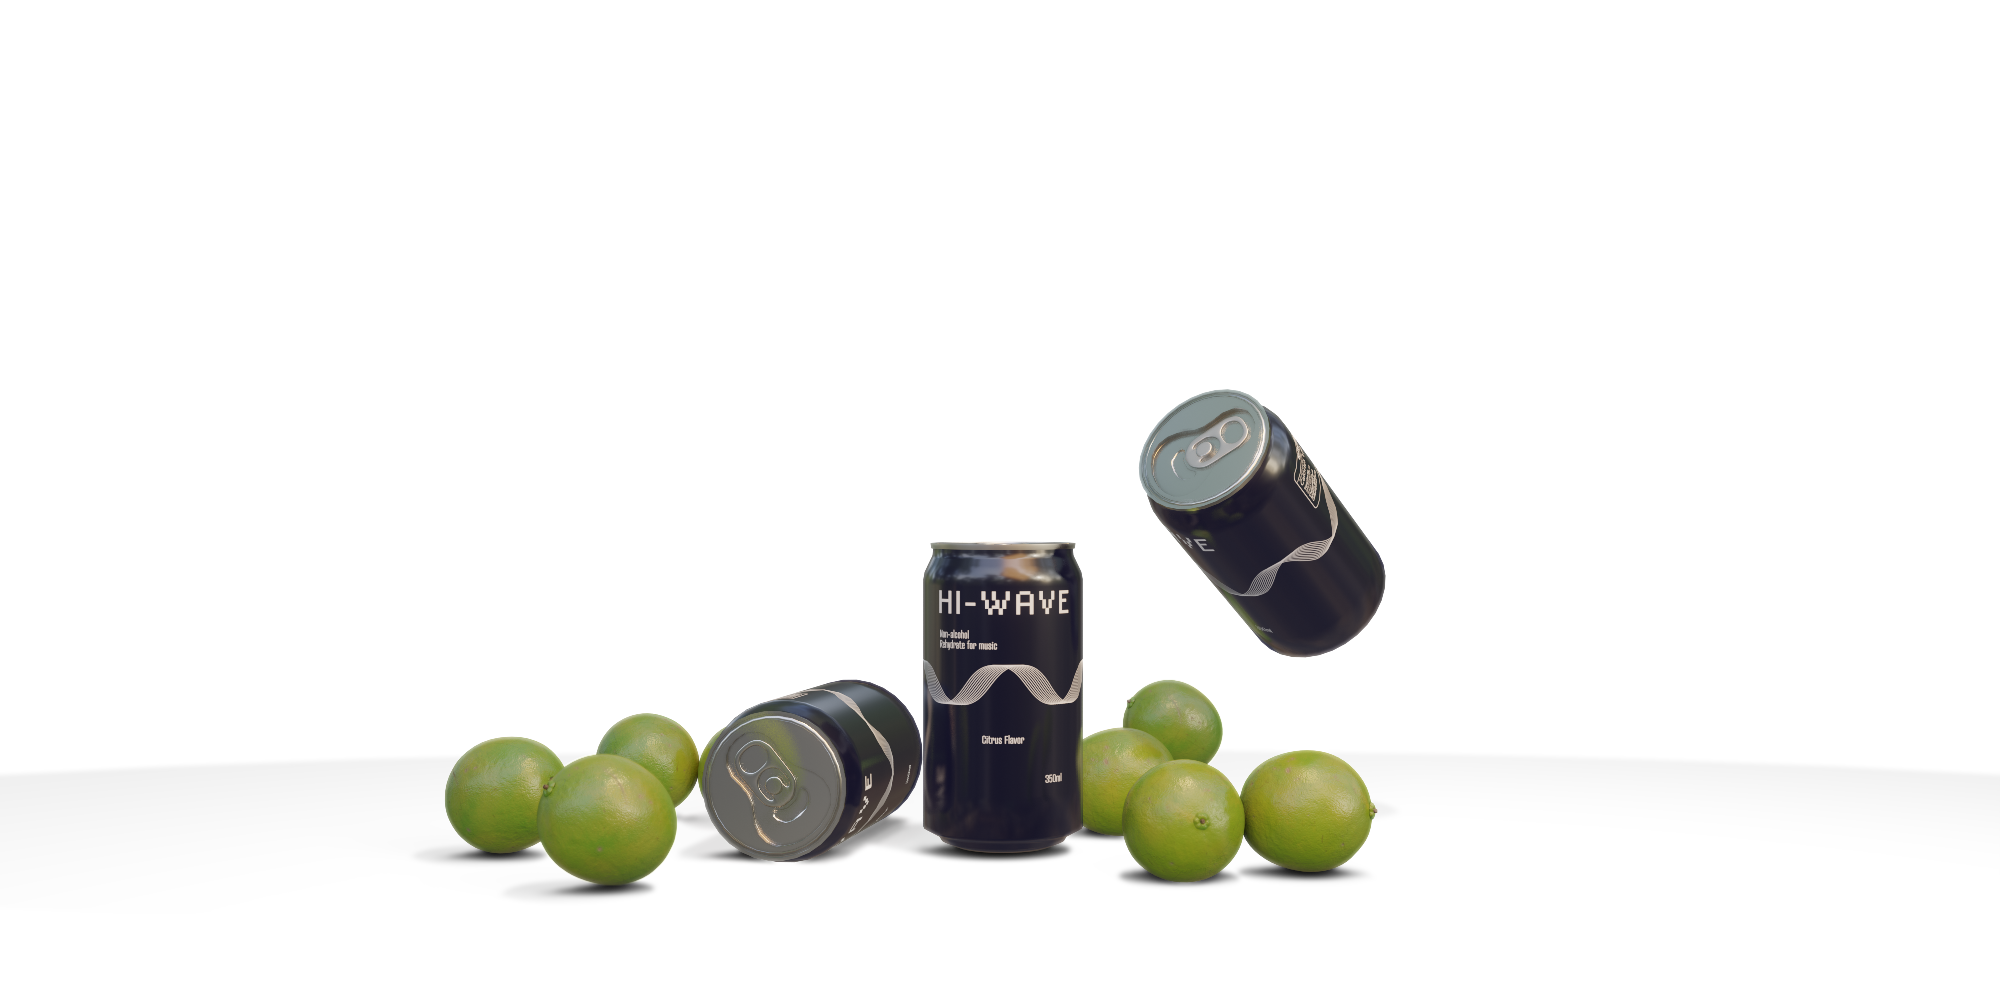
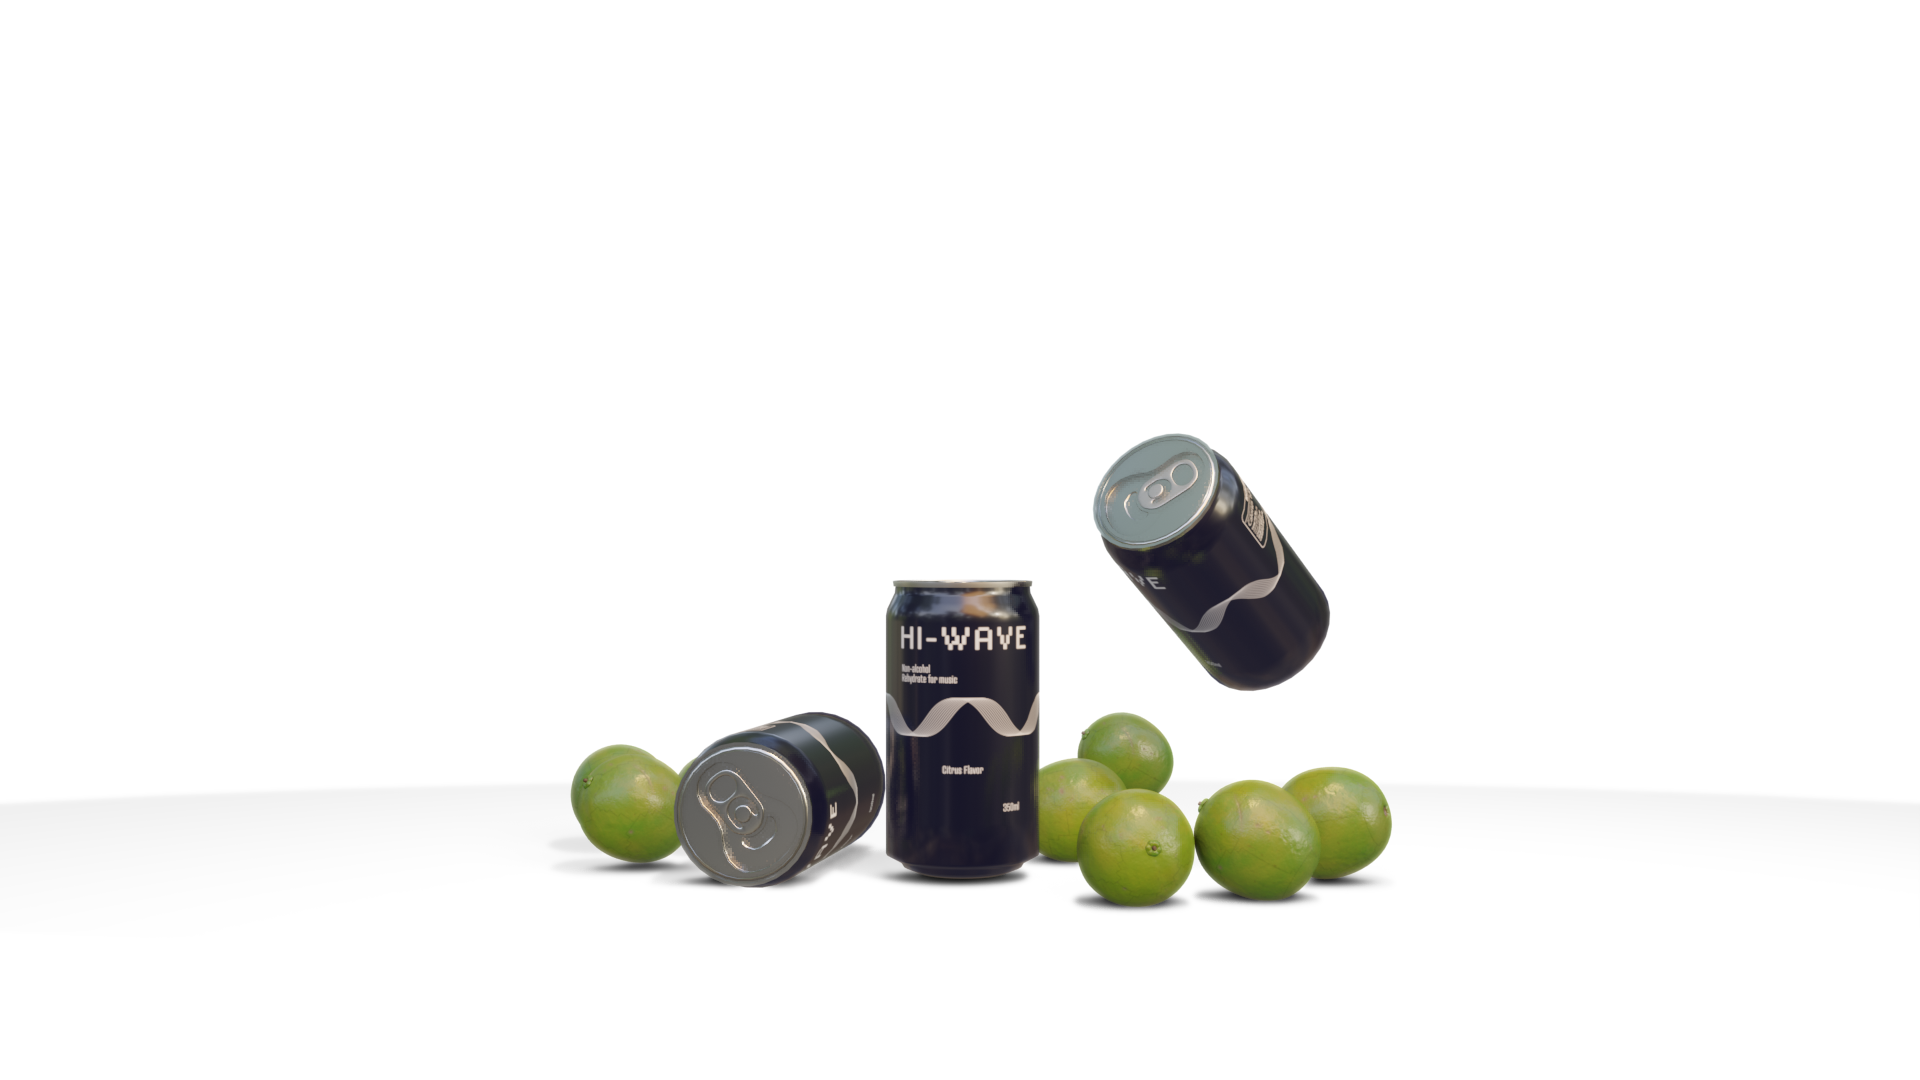
update

Changed region(s): [[0.2188, 0.496, 0.75, 0.899], [0.5625, 0.372, 0.6562, 0.496]]

diff --git a/works/can/index.html b/works/can/index.html
@@ -38,7 +38,7 @@
           </div>
         </nav>
         <div class="hero scroll_a">
-          <img src="img/top.png" alt="" />
+          <img src="img/top-min.png" alt="" />
           <h1 class="scroll_b hero_logo"><img src="img/logo.png" alt="" /></h1>
         </div>
       </header>

diff --git a/works/can/style.css b/works/can/style.css
@@ -48,7 +48,7 @@ img {
   position: absolute;
   justify-content: center;
   width: 100%;
-  top: 20%;
+  top: 10vw;
   left: 50%;
   transform: translate(-50%, -50%);
 }
